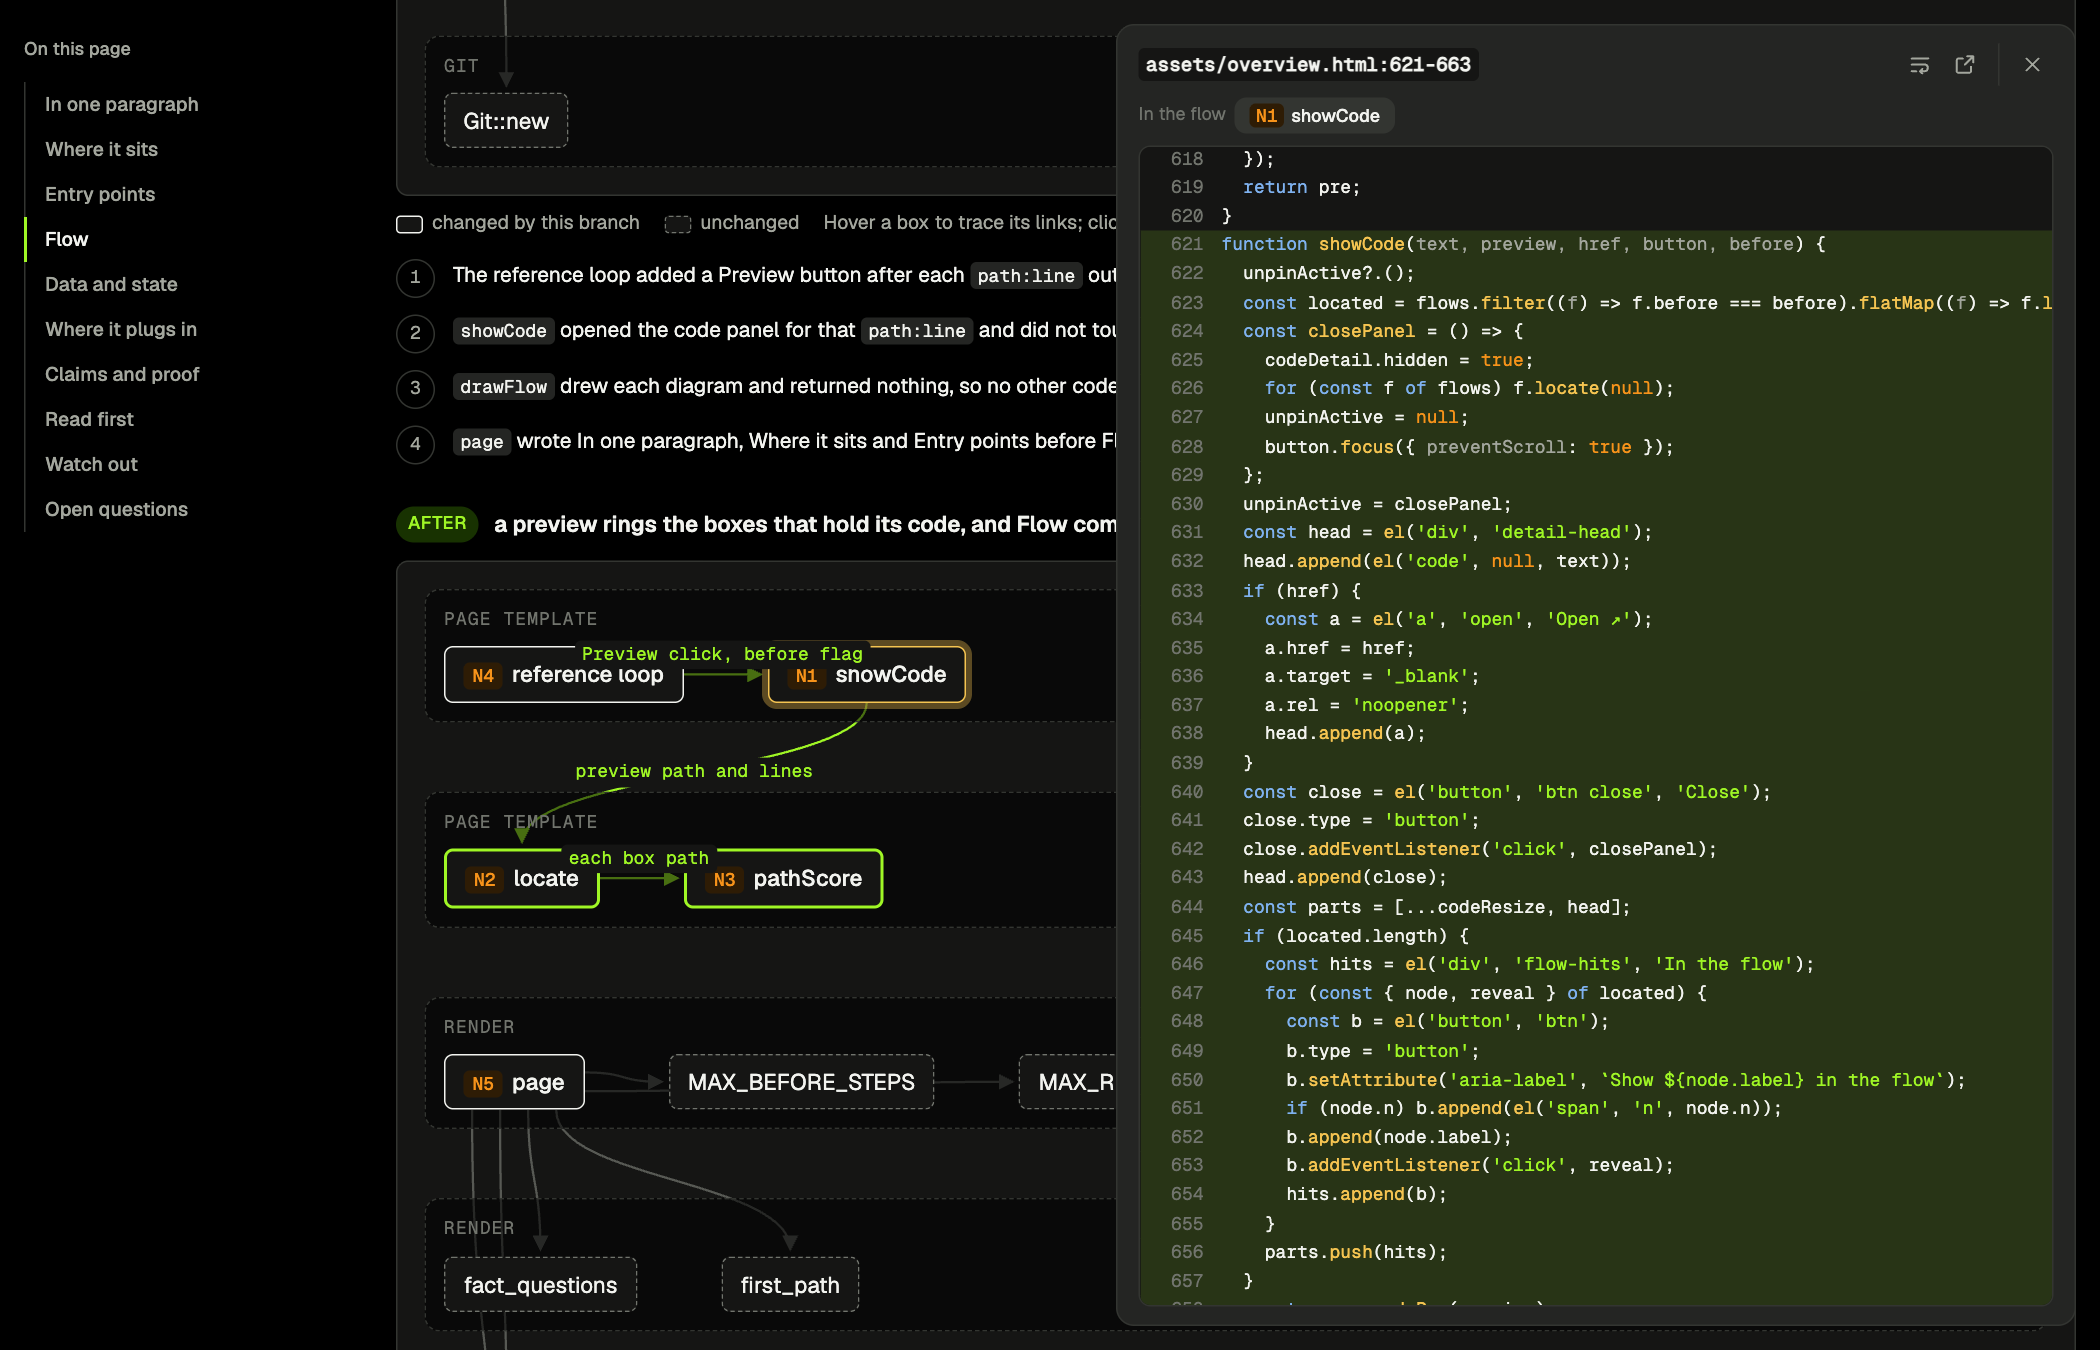
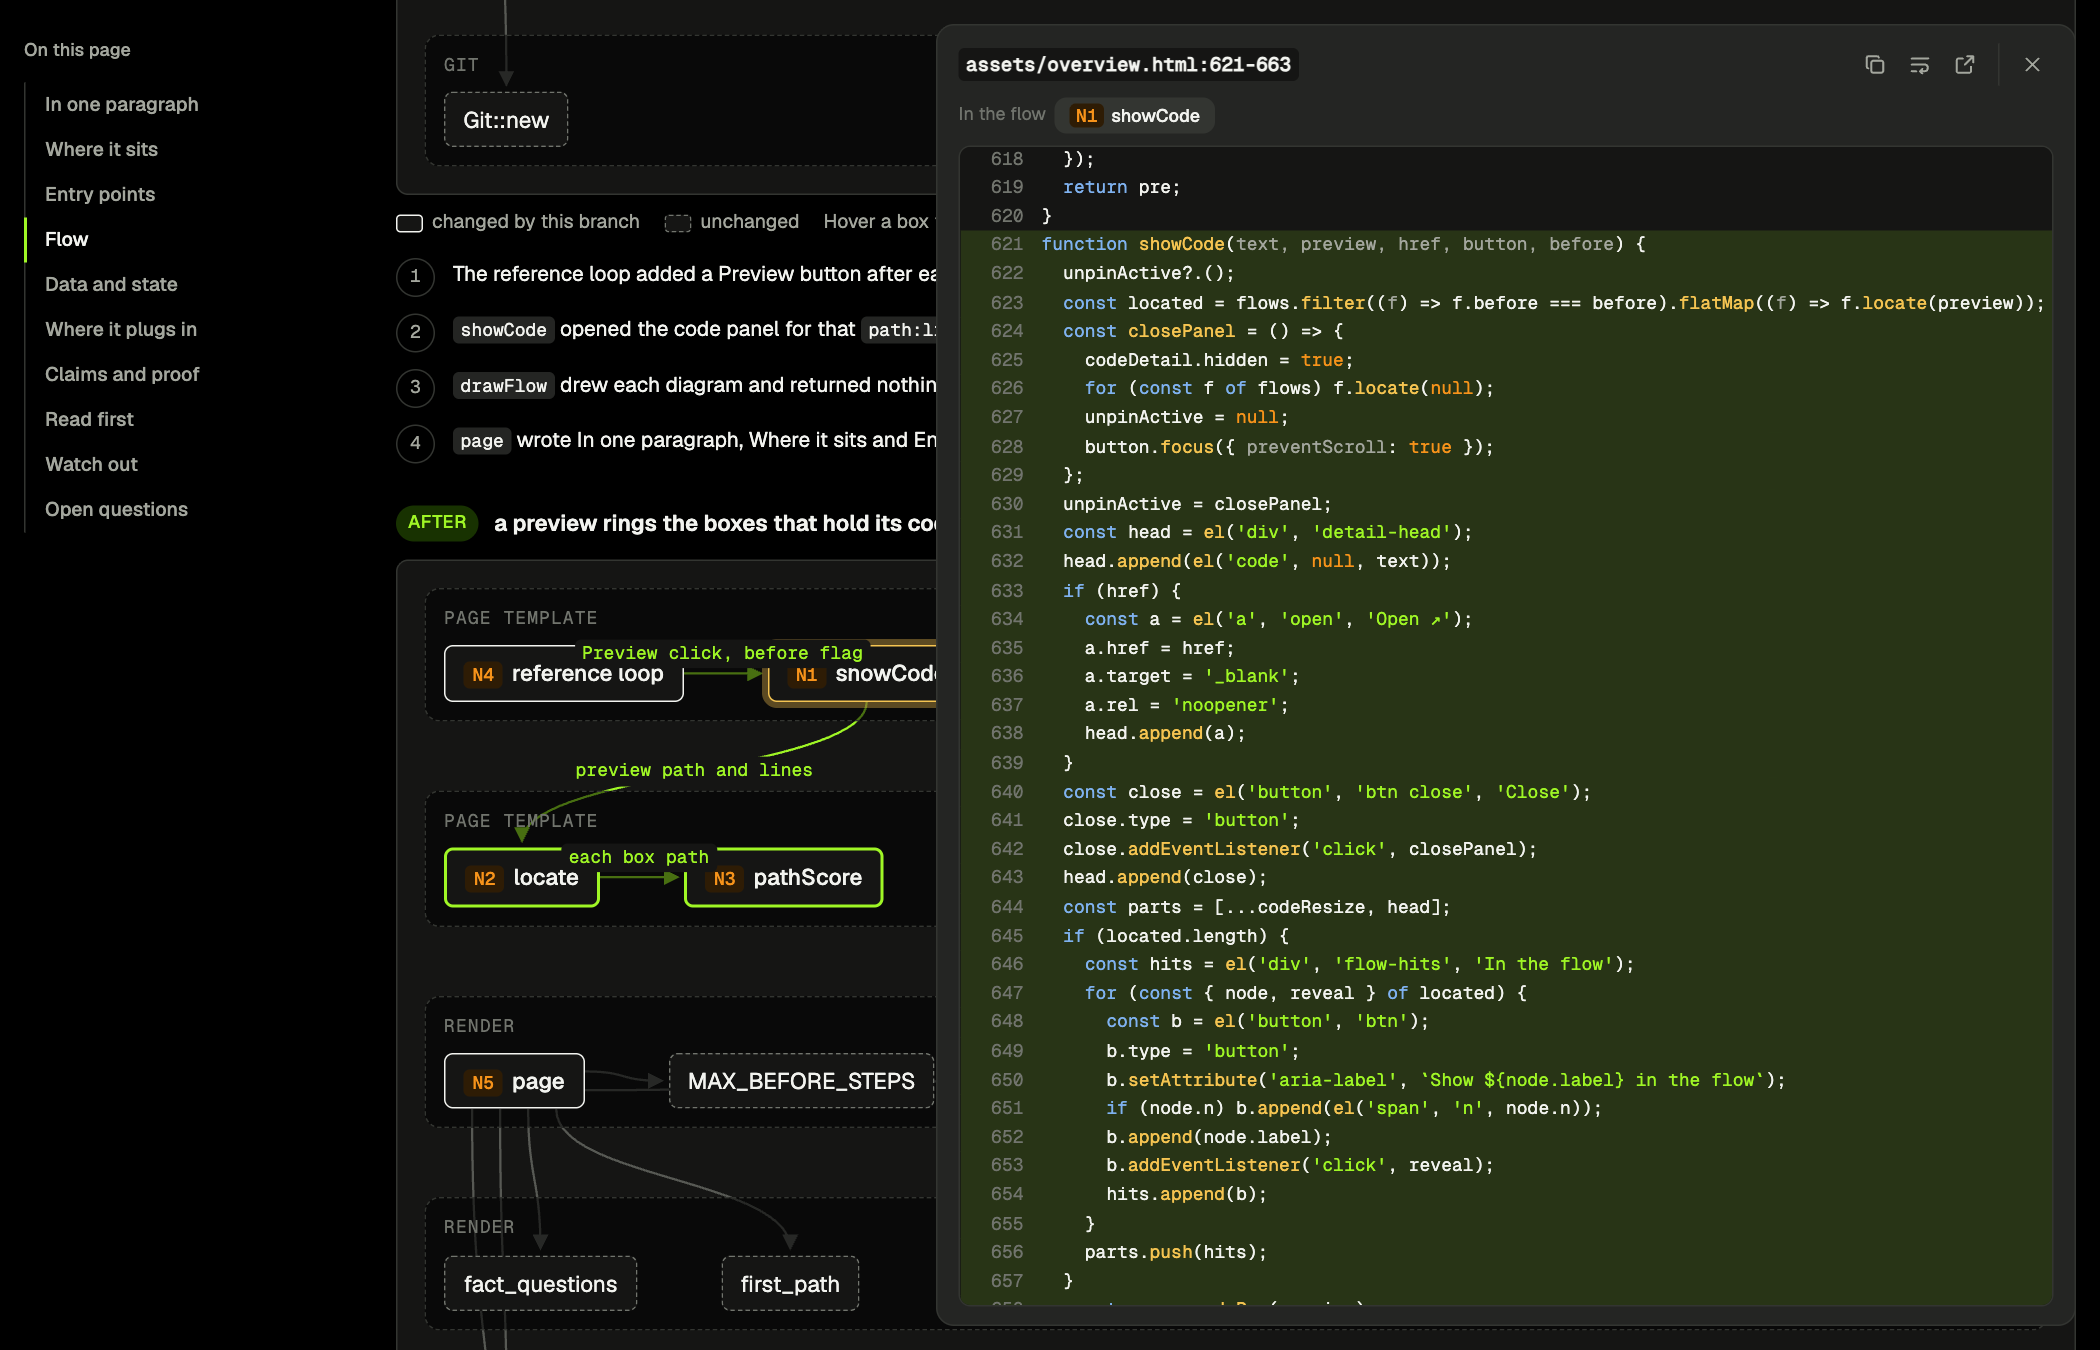
feat(page): copy button in the code preview panel (#74)
The code panel that opens from the eye next to a path:line in the text
had no way to copy that path:line, unlike the file rows in a box panel.
Add a copy icon to its title bar, before wrap and open. Describe it in
the tutorial and retake the code panel screenshot.

diff --git a/assets/overview.html b/assets/overview.html
@@ -750,14 +750,19 @@ function openLink(href) {
   a.setAttribute('aria-label', 'Open in a new tab');
   return a;
 }
-// Opens the side panel with `title` and its tools in the head (wrap when it can show code, open
-// when there is a link, close) and `body` below. `onClose` runs while the panel is still open.
-// Returns the close button.
-function showPanel({ label, title, href, wrap, live, body, onClose }) {
+// Opens the side panel with `title` and its tools in the head (copy when there is a path, wrap when
+// it can show code, open when there is a link, close) and `body` below. `onClose` runs while the
+// panel is still open. Returns the close button.
+function showPanel({ label, title, path, href, wrap, live, body, onClose }) {
   closePanel?.();
   const head = el('div', 'detail-head');
   head.append(...title);
   const tools = el('div', 'tools');
+  if (path) {
+    const b = iconButton(COPY, 'Copy path');
+    b.addEventListener('click', () => copy(path, b, CHECK));
+    tools.append(b);
+  }
   if (wrap) {
     const b = iconButton(WRAP, 'Wrap long lines');
     b.setAttribute('aria-pressed', String(document.documentElement.classList.contains('code-wrap')));
@@ -811,6 +816,7 @@ function showCode(text, preview, href, button, before) {
   const close = showPanel({
     label: 'Code preview',
     title: [el('code', null, text)],
+    path: text,
     href,
     wrap: true,
     body: [...parts, pre],

diff --git a/docs/tutorial.md b/docs/tutorial.md
@@ -50,7 +50,7 @@ Drag the panel by its title to move it, and drag any edge or corner to resize it
 
 Every `path:line` in the text has an eye button next to it. Click it to open the whole file in a code panel, scrolled to the cited lines.
 
-The preview also finds that code in the flow. The boxes that hold those lines get a yellow ring, and the panel lists them under **In the flow**. Click one to scroll to its box. Click the eye again, or the × icon, to close the preview and clear the rings. The title bar also has the wrap icon and an arrow icon that opens the lines on GitHub.
+The preview also finds that code in the flow. The boxes that hold those lines get a yellow ring, and the panel lists them under **In the flow**. Click one to scroll to its box. Click the eye again, or the × icon, to close the preview and clear the rings. The title bar also has a copy icon for the `path:line`, the wrap icon and an arrow icon that opens the lines on GitHub.
 
 If the panel covers the box you are looking for, drag the panel aside or make it narrower.
 
